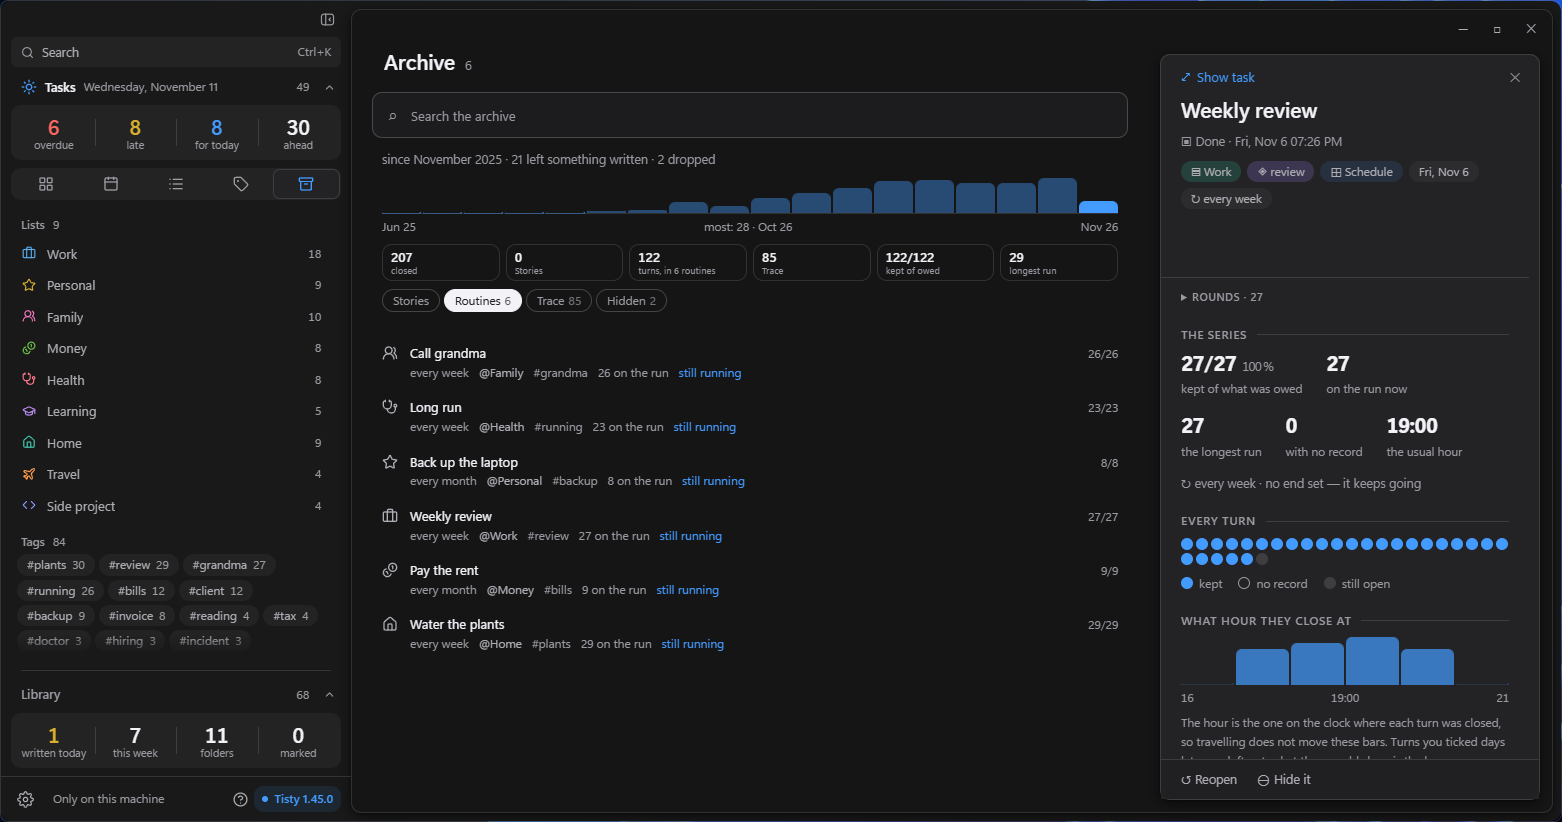
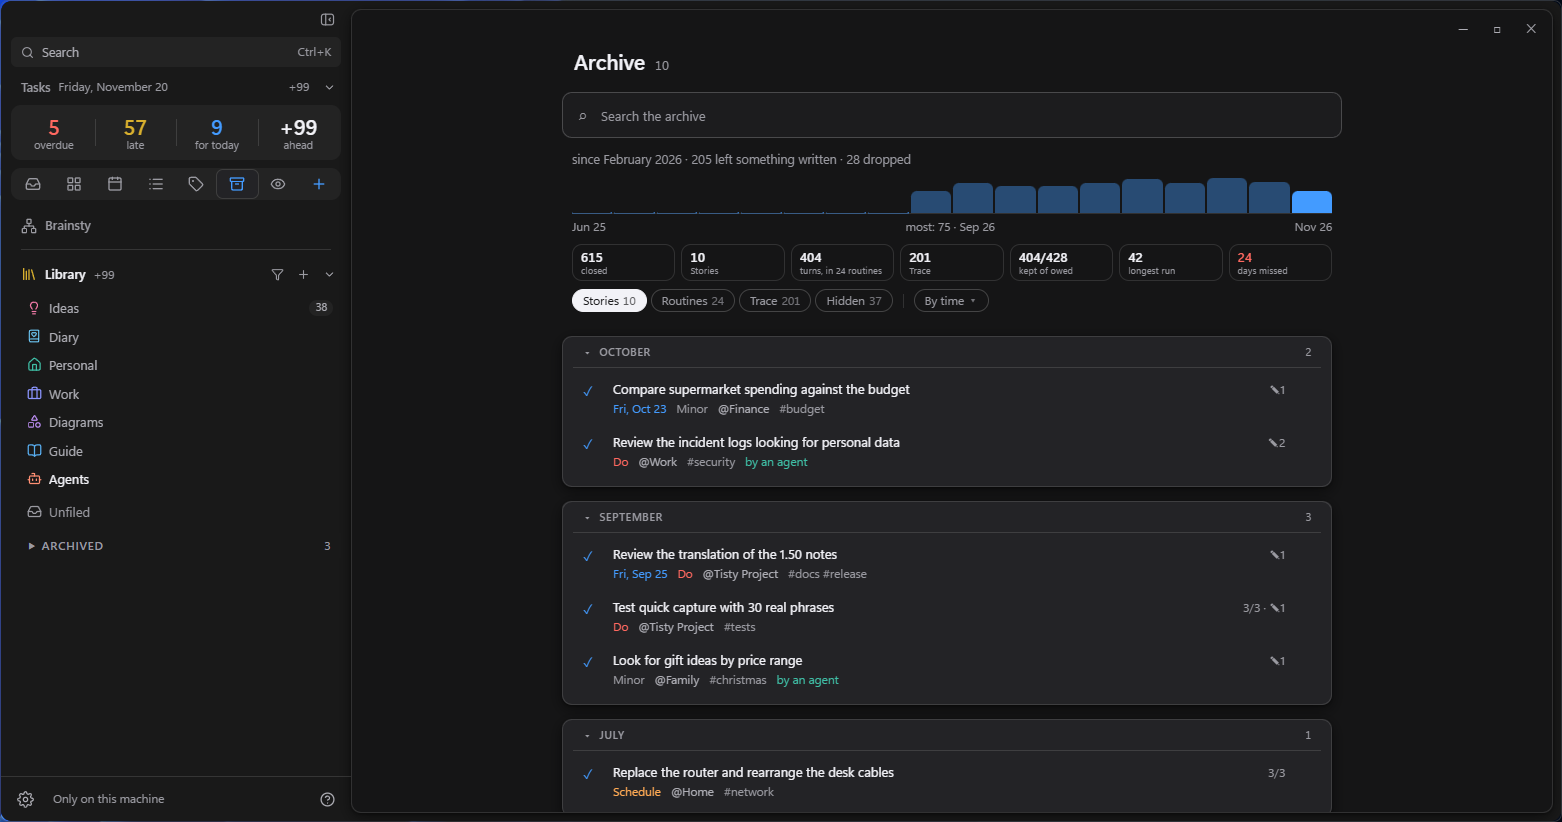
docs(guide): the Archive comes from the 1.49 set, alts match their pictures, and no server is «ours»

diff --git a/app/src-tauri/src/answers/settings.rs b/app/src-tauri/src/answers/settings.rs
@@ -27,7 +27,6 @@ pub const ATTACHED: &[&str] = &[
     "archivo.png",
     "archive.png",
     "enlazar.png",
-    "linking.png",
     "tarjeta.png",
     "card.png",
     "red.png",

diff --git a/app/src-tauri/resources/guide/es/carpeta-agents.md b/app/src-tauri/resources/guide/es/carpeta-agents.md
@@ -59,7 +59,7 @@ Si todavía no tienes archivos de agentes, el aviso dice «No encontré archivos
 
 Después, en la barra lateral, cada asistente que Tisty encontró en este equipo tiene su subcarpeta, aunque esté vacía. **Global** lleva un globo azul y cada asistente un símbolo propio en el color de su etiqueta: un globo de conversación naranja para Claude, una terminal verde azulado para Codex, unas llaves índigo para Copilot, una brújula verde para Gemini y un puntero café para Cursor. Una subcarpeta que borras no vuelve a aparecer. Cada documento se ve con su nombre y un icono: un libro para una regla, una pieza para una skill y un cerebro para la memoria. Pasa el puntero sobre uno y ves de qué archivo es.
 
-![La barra lateral con la carpeta Agentes abierta y sincronizando, con el robot en coral: dentro, Global con su globo azul y Claude con su globo de conversación naranja; en Claude, la regla Reglas, elegida, con el icono de una hoja, y debajo las skills, cada una con el icono de una pieza y cuántos archivos lleva](agents-barra.png)
+![La barra lateral con la carpeta Agentes abierta y sincronizando, con el robot en coral: dentro, Global con su globo azul y Claude con su globo de conversación naranja; en Claude, la regla Reglas, elegida, con el icono de un libro, y debajo las skills, cada una con el icono de una pieza y cuántos archivos lleva](agents-barra.png)
 
 ## Una regla: en Tisty y en `CLAUDE.md`
 
@@ -281,7 +281,7 @@ Lo mismo pasa con `AGENTS.override.md`, el archivo que Codex lee en vez de `AGEN
 
 ## Sacar una regla y su archivo
 
-Cuando borras una regla, la mueves fuera de Agentes o vuelves a una versión sin ficha, Tisty deja de escribirla. Si era la única que armaba su archivo, ese archivo sigue en el disco y tu agente lo sigue leyendo, así que alrededor de un segundo después Tisty te pregunta:
+Cuando borras una regla, la mueves fuera de Agentes o vuelves a una versión sin ficha, Tisty deja de escribirla. Si era la única que armaba su archivo, ese archivo sigue en el disco y tu agente lo sigue leyendo, así que alrededor de un segundo después Tisty te pregunta **¿Quitar también el archivo?**, con la ruta del archivo, por ejemplo `~/.claude/rules/pruebas.md`, y «Si lo quitas, queda un respaldo en este equipo.»:
 
 - **Quitar el archivo** guarda un respaldo en este equipo y lo borra: Claude deja de leer esa regla.
 - **Dejarlo** lo deja donde está, y Tisty no lo vuelve a escribir ni a preguntar. Si un día lo quieres de vuelta, aparece en **Traer otro archivo**.

diff --git a/app/src-tauri/resources/guide/en/agents-folder.md b/app/src-tauri/resources/guide/en/agents-folder.md
@@ -59,7 +59,7 @@ If you have no agent files yet, the box says «I found no agent files on this co
 
 Afterwards, in the sidebar, each assistant Tisty found on this computer has its subfolder, even an empty one. **Global** has a blue globe and each assistant a symbol of its own in its label's colour: an orange chat bubble for Claude, a teal terminal for Codex, indigo braces for Copilot, a green compass for Gemini and a brown pointer for Cursor. A subfolder you delete does not come back. Each document shows with its name and an icon: a book for a rule, a piece for a skill and a brain for memory. Hover over one and you see which file it is.
 
-![The sidebar with the Agents folder open and syncing, with the robot in coral: inside, Global with its blue globe and Claude with its orange chat bubble; in Claude, the rule Rules, picked, with a sheet icon, and below it the skills, each with a puzzle-piece icon and how many files it holds](agents-sidebar.png)
+![The sidebar with the Agents folder open and syncing, with the robot in coral: inside, Global with its blue globe and Claude with its orange chat bubble; in Claude, the rule Rules, picked, with a book icon, and below it the skills, each with a puzzle-piece icon and how many files it holds](agents-sidebar.png)
 
 ## A rule: in Tisty and in `CLAUDE.md`
 
@@ -281,7 +281,7 @@ The same goes for `AGENTS.override.md`, the file Codex reads instead of `AGENTS.
 
 ## Taking a rule and its file out
 
-When you delete a rule, move it out of Agents or go back to a version without its card, Tisty stops writing it. If it was the only one making up its file, that file is still on disk and your agent keeps reading it, so about a second later Tisty asks:
+When you delete a rule, move it out of Agents or go back to a version without its card, Tisty stops writing it. If it was the only one making up its file, that file is still on disk and your agent keeps reading it, so about a second later Tisty asks **Take the file away too?**, with the file's path, for example `~/.claude/rules/tests.md`, and «If you take it away, a backup stays on this computer.»:
 
 - **Take the file away** keeps a backup on this computer and deletes it: Claude stops reading that rule.
 - **Leave it** leaves it where it is, and Tisty neither writes it nor asks again. If one day you want it back, it shows in **Bring another file**.

diff --git a/app/src-tauri/resources/guide/es/guia.md b/app/src-tauri/resources/guide/es/guia.md
@@ -163,7 +163,7 @@ Un recordatorio es una hora que eliges en la tarea: suena como una notificación
 
 Dos preguntas, cuatro casillas: si corre prisa y si importa.
 
-![Los cuatro cuadrantes —hacer, planificar, delegar y prescindible— y la bandeja de lo que no clasificaste](prioridades.png)
+![Los cuatro cuadrantes, Hacer, Planificar, Delegar y Prescindible, cada uno con su cuenta, y junto al título cuántas tareas faltan por clasificar](prioridades.png)
 
 - **Hacer** — urgente e importante. Hoy.
 - **Planificar** — importante, sin prisa. Ponle fecha antes de que se vuelva urgente.
@@ -517,7 +517,7 @@ Tisty trabaja siempre en este equipo. Para tener lo mismo en otro, dile dónde d
 - **Directo a una nube**: tu Google Drive, tu OneDrive o tu propio servidor WebDAV (Nextcloud, ownCloud, Synology y otros), sin instalar nada más.
 - **Una carpeta**: Google Drive, OneDrive, iCloud o Dropbox si están instalados, o cualquier carpeta que vean los dos equipos. Ahí quien sube y baja es el programa de tu proveedor, no Tisty.
 
-> No hay servidor nuestro por medio. Sincronizar te da otra copia, no un viaje al pasado: si borras una tarea, el borrado también viaja.
+> No hay ningún servidor por medio. Sincronizar te da otra copia, no un viaje al pasado: si borras una tarea, el borrado también viaja.
 
 Cuando dos equipos escribieron la misma parte de un documento, Tisty no elige: te muestra las dos versiones y te quedas con **Esta**, **La otra** o **Las dos**.
 
@@ -546,7 +546,7 @@ La primera vez, Compartir te pide crear tu identidad: la llave con que firmas lo
 
 Una tarea terminada no se acaba: se archiva. Deja de ser algo por hacer y se vuelve el registro de cómo resolviste algo, con su página, sus pasos, sus archivos y sus partes, tal como quedaron. Se lee pero ya no se escribe, y vuelve si la reabres.
 
-![El Archivo con sus rutinas: cuántas vueltas se cumplieron, la racha y la hora a la que se suelen cerrar](archivo.png)
+![El Archivo: su buscador, las tareas cerradas mes a mes, sus cifras con las cerradas, las historias, las vueltas de las rutinas y la racha más larga, las capas Historias, Rutinas, Rastro y Ocultas, y las historias agrupadas por mes](archivo.png)
 
 Lo abre el icono de la caja, junto a las vistas de la barra lateral, y se lee en tres capas:
 

diff --git a/app/src-tauri/resources/guide/en/guide.md b/app/src-tauri/resources/guide/en/guide.md
@@ -163,7 +163,7 @@ A reminder is a time you choose on the task: it rings as a system notification o
 
 Two questions, four boxes: whether it is pressing and whether it matters.
 
-![The four quadrants (do, schedule, delegate and minor) and the tray of what you have not sorted](priorities.png)
+![The four quadrants, Do, Schedule, Delegate and Minor, each with its count, and beside the title how many tasks are left to sort](priorities.png)
 
 - **Do** — urgent and important. Today.
 - **Schedule** — important, no rush. Give it a date before it turns urgent.
@@ -517,7 +517,7 @@ Tisty always works on this computer. To have the same on another one, tell it wh
 - **Straight to a cloud**: your Google Drive, your OneDrive or your own WebDAV server (Nextcloud, ownCloud, Synology and others), with nothing else installed.
 - **A folder**: Google Drive, OneDrive, iCloud or Dropbox if they are installed, or any folder both computers can see. There, whoever uploads and downloads is your provider's program, not Tisty.
 
-> There is no server of ours in between. Syncing gives you another copy, not time travel: if you delete a task, the deletion travels too.
+> There is no server in between. Syncing gives you another copy, not time travel: if you delete a task, the deletion travels too.
 
 When two computers wrote the same part of a document, Tisty does not choose: it shows you both versions and you keep **This one**, **The other** or **Both**.
 
@@ -546,7 +546,7 @@ The first time, Share asks you to create your identity: the key you sign what yo
 
 A finished task does not end: it is archived. It stops being something to do and becomes the record of how you solved something, with its page, its steps, its files and its parts, as they were left. It can be read but no longer written, and it comes back if you reopen it.
 
-![The Archive with its routines: how many rounds were kept, the run and the hour they usually close at](archive.png)
+![The Archive: its search box, the closed tasks month by month, its figures with the closed ones, the stories, the routines' turns and the longest run, the layers Stories, Routines, Trace and Hidden, and the stories grouped by month](archive.png)
 
 The box icon, beside the views in the sidebar, opens it, and it reads in three layers:
 

diff --git a/app/src-tauri/resources/guide/en/brainsty.md b/app/src-tauri/resources/guide/en/brainsty.md
@@ -8,8 +8,6 @@ What you keep was already joined: a document cites another, a task was born in s
 
 Type `[[` where you want the link and go on with a few words of the title. Tisty offers up to eight documents that match, ignoring accents and capitals, those that start that way first. Pick one with `Enter` and a link with its title stays, pointing at the document and not at its name: if you rename it, the link still gets there.
 
-![The menu two brackets open in Rina's record, before anything else is typed: the documents you can link, one per line](linking.png)
-
 **Try it:** at the end of this paragraph type `[[rina` and pick **Rina**, this guide's sample page. You get a link like this one: [Rina](tisty:page).
 
 To land on a section, follow the title with `#`: `[[what is#tasks` offers the sections of this guide's cover that hold that word, and the link opens the guide right at **Tasks**. If that section stops existing, the link opens the document at the top.

diff --git a/docs/help/Linking-Documents.md b/docs/help/Linking-Documents.md
@@ -4,8 +4,6 @@ For years I kept what I knew in loose notes, and the hard part was never writing
 
 This page covers linking a document to another one or to a section of another, seeing where a link goes without leaving your place, and knowing who links to a document. Citing a task inside a document, and creating one from there, is in [[Tasks in documents|Tasks-in-Documents]]. Everything you link shows up in [[the Brainsty network|Brainsty-Network]].
 
-![The menu two brackets open in a document: the titles that match what was typed, those that start that way first](https://raw.githubusercontent.com/rgdevment/Tisty/main/app/src-tauri/resources/guide/en/linking.png)
-
 ## When it helps
 
 - **A subject that leans on another.** «Rina» names «Vet» where it tells about the yearly vaccine; whoever reads Rina's note is one click away from Marisol's opening hours.
